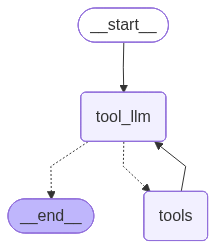
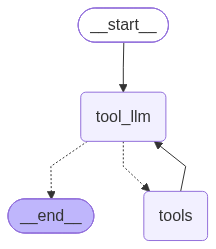
fixed tools

diff --git a/components/tools/tools.py b/components/tools/tools.py
@@ -1,3 +1,4 @@
+import wikipedia
 from langchain_community.tools import WikipediaQueryRun
 from langchain_community.utilities import WikipediaAPIWrapper
 from components.state import CardioState
@@ -20,6 +21,10 @@ os.environ["GROQ_API_KEY"]=os.getenv("GROQ_API_KEY")
 os.environ["LANGCHAIN_API_KEY"]=os.getenv("LANGCHAIN_API_KEY")
 os.environ["LANGCHAIN_TRACING_V2"] = "true"
 os.environ["LANGCHAIN_PROJECT"]="ReAct-agent"
+
+# Wikimedia now rate-limits/blocks the wikipedia package's default generic
+# User-Agent; a distinct one is required for API requests to succeed.
+wikipedia.set_user_agent("CardioApp/1.0 (nihal1999patel@gmail.com)")
 
 api_wrapper_wiki=WikipediaAPIWrapper(top_k_results=1,doc_content_chars_max=500)
 

diff --git a/CardioApp/obj/Debug/net8.0-windows/CardioApp.AssemblyInfo.cs b/CardioApp/obj/Debug/net8.0-windows/CardioApp.AssemblyInfo.cs
@@ -13,7 +13,7 @@ using System.Reflection;
 [assembly: System.Reflection.AssemblyCompanyAttribute("CardioApp")]
 [assembly: System.Reflection.AssemblyConfigurationAttribute("Debug")]
 [assembly: System.Reflection.AssemblyFileVersionAttribute("1.0.0.0")]
-[assembly: System.Reflection.AssemblyInformationalVersionAttribute("1.0.0")]
+[assembly: System.Reflection.AssemblyInformationalVersionAttribute("1.0.0+59319b9eea88567b48de83de63c4a43bcd4af145")]
 [assembly: System.Reflection.AssemblyProductAttribute("CardioApp")]
 [assembly: System.Reflection.AssemblyTitleAttribute("CardioApp")]
 [assembly: System.Reflection.AssemblyVersionAttribute("1.0.0.0")]

diff --git a/components/graph.py b/components/graph.py
@@ -9,7 +9,7 @@ from components.tools.tools import  get_tools
 
 from langchain_groq import ChatGroq
 
-llm=ChatGroq(model="llama-3.1-8b-instant")
+llm=ChatGroq(model="openai/gpt-oss-20b")
 
 tools = get_tools()
 llm_with_tools = llm.bind_tools(tools)
